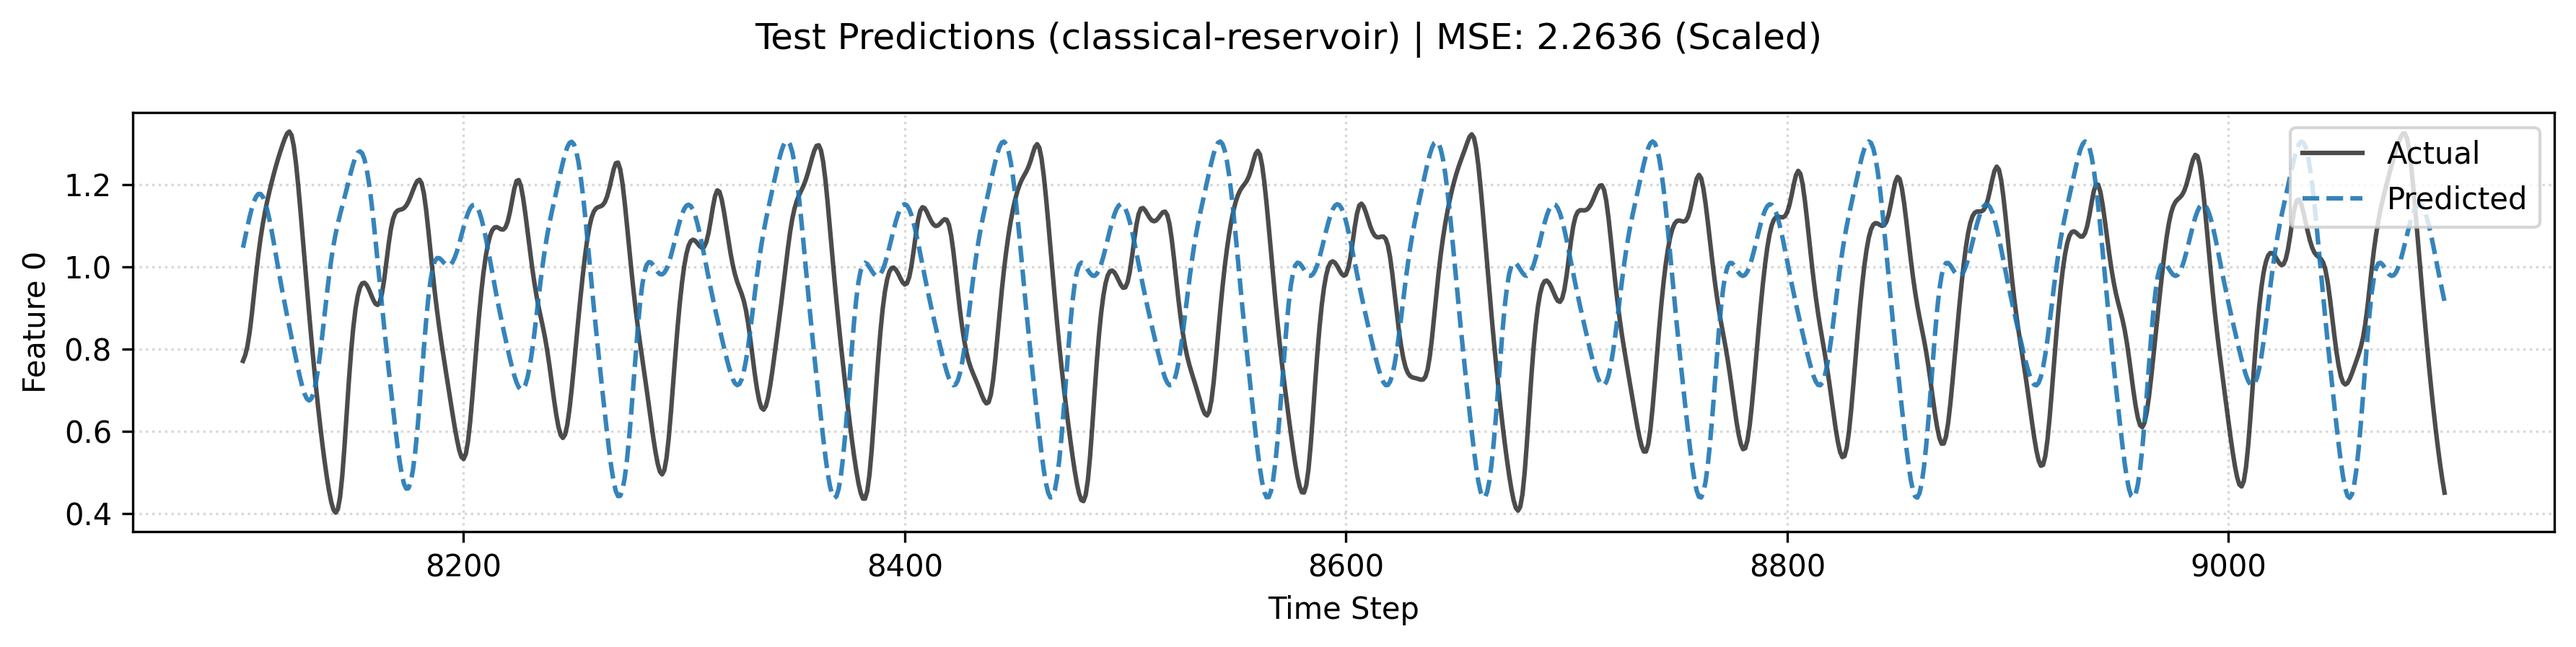
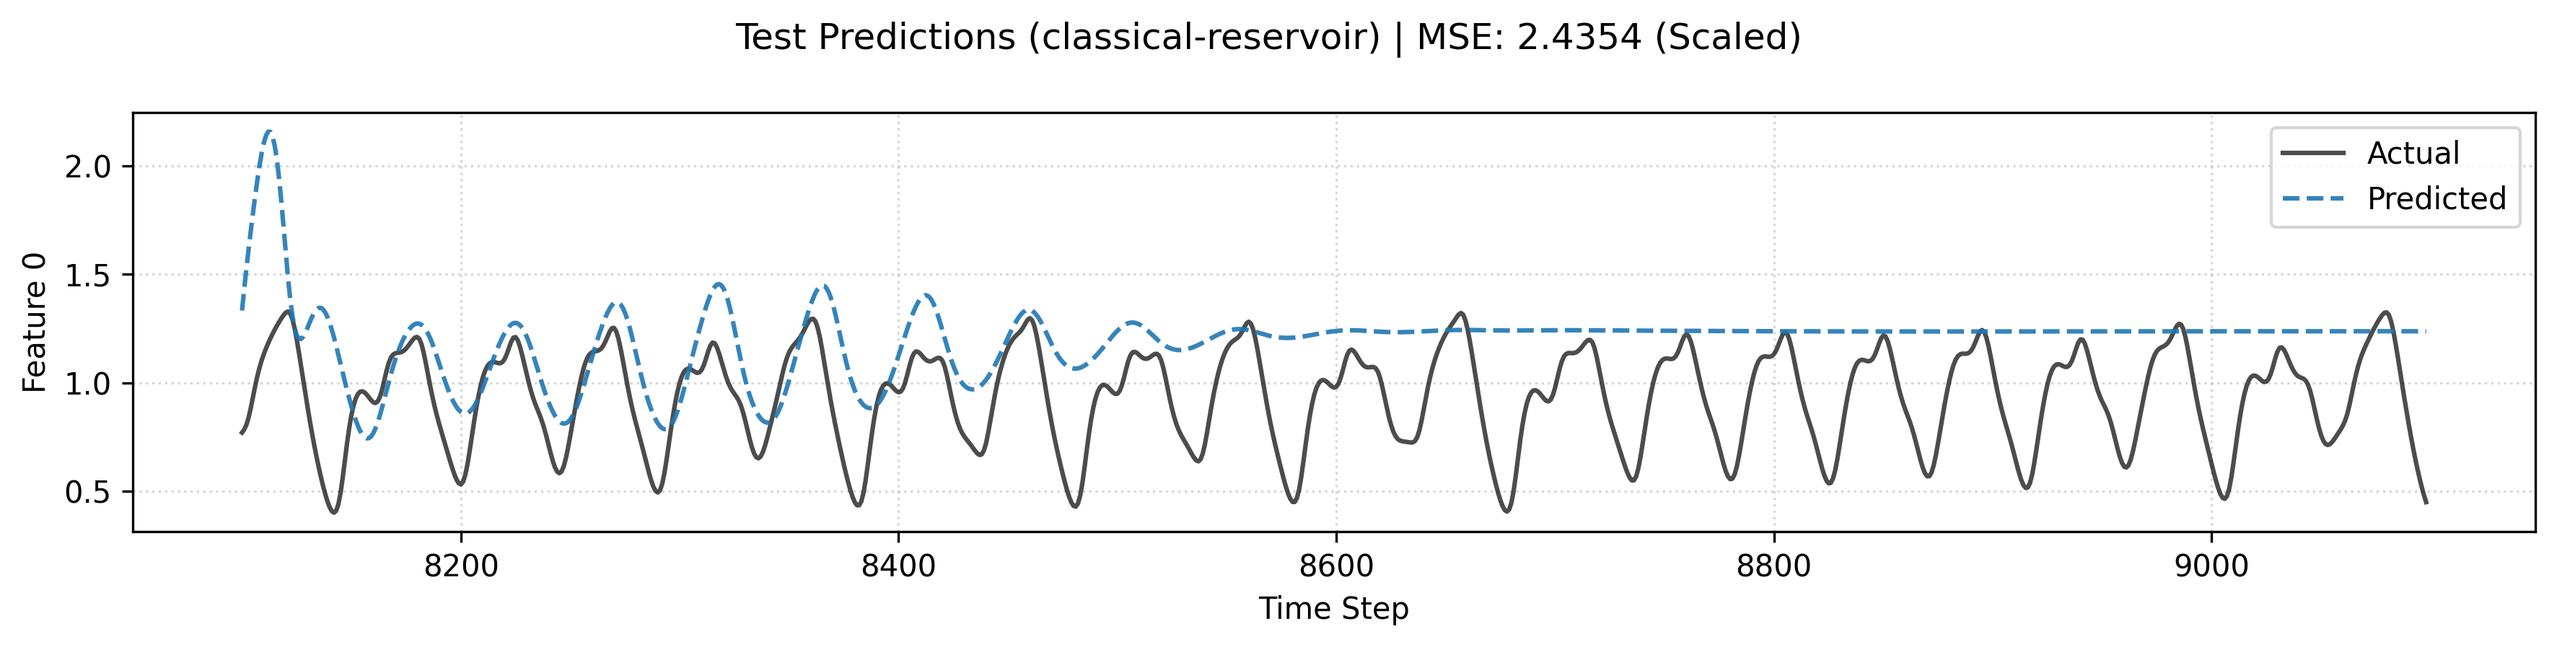
fixing not working properly

diff --git a/src/reservoir/pipelines/generic_runner.py b/src/reservoir/pipelines/generic_runner.py
@@ -325,7 +325,7 @@ class UniversalPipeline:
         test_features = self.batch_transform(test_X, batch_size=feature_batch_size)
         self._feature_stats(test_features, "post_test_features")
 
-        print("\n=== Step 7: Readout (Ridge Regression) ===")
+        print("\n=== Step 7: Readout (Ridge Regression) with val data ===")
 
         # Align lengths
         def align_length(feat, targ):
@@ -351,15 +351,93 @@ class UniversalPipeline:
             test_pred = test_features
             if val_Z is not None: val_pred = val_Z
         else:
-            best_lambda, search_history, weight_norms = self._fit_readout(
-                train_features, train_y, val_Z, val_y, ridge_lambdas
-            )
-            print("Generating final predictions...")
+            # === Closed-Loop Hyperparameter Search ===
+            print(f"    [Runner] Starting Closed-Loop Hyperparameter Search over {len(ridge_lambdas)} candidates...")
+            
+            # 1. Validation Data Check
+            if val_Z is None or val_y is None:
+                raise ValueError("Validation data (val_Z, val_y) is REQUIRED for Closed-Loop Search.")
+
+            # 2. Setup Projection Fn (Once)
+            proj_fn = None
+            if self.config.projection is not None:
+                if hasattr(frontend_ctx, "projection_layer") and frontend_ctx.projection_layer is not None:
+                     def proj_fn(x): return frontend_ctx.projection_layer(x)
+                else:
+                    print("    [Runner] Warning: Projection configured but layer not found in context.")
+
+            # 3. Search Loop
+            best_score = float("inf")
+            best_lambda = ridge_lambdas[0]
+            search_history = {}
+            weight_norms = {}
+            
+            # Reshape for fit (Reuse)
+            tf_reshaped = train_features.reshape(-1, train_features.shape[-1]) if train_features.ndim == 3 else train_features
+            ty_reshaped = train_y.reshape(-1, train_y.shape[-1]) if train_y.ndim == 3 else train_y
+
+            # Val Seed (Use last part of Train to predict Val)
+            val_steps = val_Z.shape[1] if val_Z.ndim == 3 else 0
+            if val_steps == 0: 
+                # Fallback if val_Z is 2D (not sequence) - but run.py ensures 3D?
+                val_steps = val_Z.shape[0]
+
+            # We use the processed train_X (Projected) for warmup
+            # Assuming train_X is (Batch, Time, Dim)
+            seed_len = val_steps
+            if train_X.shape[1] < seed_len:
+                 seed_len = train_X.shape[1]
+            seed_data = train_X[:, -seed_len:, :]
+
+            for lam in tqdm(ridge_lambdas, desc="[Closed-Loop Search]"):
+                lam_val = float(lam)
+                
+                # A. Set Lambda
+                if hasattr(self.readout, "ridge_lambda"):
+                    self.readout.ridge_lambda = lam_val
+                elif hasattr(self.readout, "config"):
+                    self.readout.config.ridge_lambda = lam_val
+                
+                # B. Open-Loop Fit
+                self.readout.fit(tf_reshaped, ty_reshaped)
+                
+                # Track norm
+                if hasattr(self.readout, "coef_") and self.readout.coef_ is not None:
+                     weight_norms[lam_val] = float(jnp.linalg.norm(self.readout.coef_))
+
+                # C. Closed-Loop Generation (Validation)
+                val_gen_features = self.generate_closed_loop(seed_data, steps=val_steps, projection_fn=proj_fn)
+                
+                # D. Score (MSE against val_y)
+                score = self._score(val_gen_features, val_y)
+                
+                search_history[lam_val] = float(score)
+                
+                if score < best_score:
+                    best_score = score
+                    best_lambda = lam_val
+
+            print(f"    [Runner] Best Closed-Loop Lambda: {best_lambda:.5e} (Score: {best_score:.5f})")
+
+            # 4. Refit with Best Lambda
+            print(f"    [Runner] Re-fitting readout with best_lambda={best_lambda:.5e}...")
+            if hasattr(self.readout, "ridge_lambda"):
+                self.readout.ridge_lambda = best_lambda
+            elif hasattr(self.readout, "config"):
+                self.readout.config.ridge_lambda = best_lambda
+            self.readout.fit(tf_reshaped, ty_reshaped)
+
+            # 5. Standard Open-Loop Predictions (for consistency with logs)
+            print("Generating final predictions (Open-Loop)...")
             train_pred = self.readout.predict(train_features)
             test_pred = self.readout.predict(test_features)
             
             if val_Z is not None:
                 val_pred = self.readout.predict(val_Z)
+
+            print("#TODO ridge search log should be before step 8 is shown")
+
+            print("\n=== Step 8: Final Predictions (Inverse Transformed):===")
 
             # Inverse Transform Logging
             if frontend_ctx.scaler is not None:
@@ -367,7 +445,6 @@ class UniversalPipeline:
                     scaler = frontend_ctx.scaler
                     tp_reshaped = test_pred.reshape(-1, 1) if test_pred.ndim == 1 else test_pred
                     test_pred_raw = scaler.inverse_transform(tp_reshaped)
-                    print("\n[Confirmation] Final Predictions (Inverse Transformed):")
                     self._feature_stats(test_pred_raw, "final_test_pred_raw")
                     
                 except Exception as e:
@@ -388,7 +465,7 @@ class UniversalPipeline:
                      if generation_steps > 0:
                          # Sufficient to restore state without re-running full train.
                          context_len = test_X.shape[1]
-                         seed_input = train_X[:, -context_len:, :]
+                         seed_input = val_Z[:, -context_len:, :]
 
                          print(f"    [Runner] Full Closed-Loop: Seeding with last {context_len} steps of Train -> Generating {generation_steps} Test steps.")
 

diff --git a/src/reservoir/models/presets.py b/src/reservoir/models/presets.py
@@ -82,14 +82,14 @@ TIME_CLASSICAL_RESERVOIR_PRESET = PipelineConfig(
     ),
     projection=ProjectionConfig(
         n_units=400,
-        input_scale=0.4,
+        input_scale=0.2,
         input_connectivity=1.0,
         bias_scale=0.1,
         seed=1,
     ),
     model=ClassicalReservoirConfig(
-        spectral_radius=0.99,
-        leak_rate=0.2,
+        spectral_radius=0.9,
+        leak_rate=0.1,
         rc_connectivity=0.02,
         seed=42,
         aggregation=AggregationMode.SEQUENCE,

diff --git a/src/reservoir/training/presets.py b/src/reservoir/training/presets.py
@@ -18,7 +18,7 @@ TRAINING_PRESETS: Dict[str, TrainingConfig] = {
         seed= 0,
 
         # Readout Regularization search space (used by Ridge)
-        ridge_lambdas= np.logspace(-12, 3, 30).tolist(),
+        ridge_lambdas= np.logspace(-2, 3, 30).tolist(),
 
         # Data Splitting //TODO test is already defined at MNIST so what gives test_ratio?
         train_size=0.8,

diff --git a/src/reservoir/cli/main.py b/src/reservoir/cli/main.py
@@ -45,6 +45,8 @@ def main() -> None:
 
     print(f"[Unified] Running {pipeline_config.name} pipeline on {dataset.name}... with training preset '{training_config.name}'")
 
+    print(pipeline_config.config, dataset.value, training_config.to_dict())
+
     # Run Pipeline
     results = run_pipeline(pipeline_config, dataset, training_config)
 
